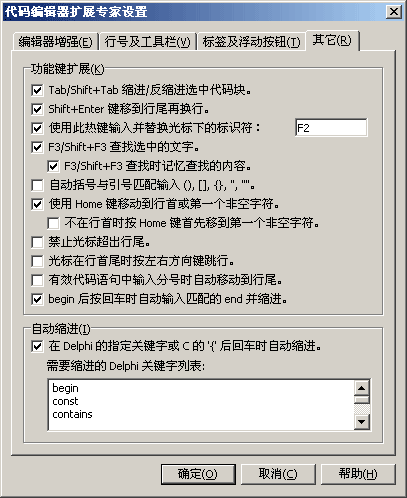
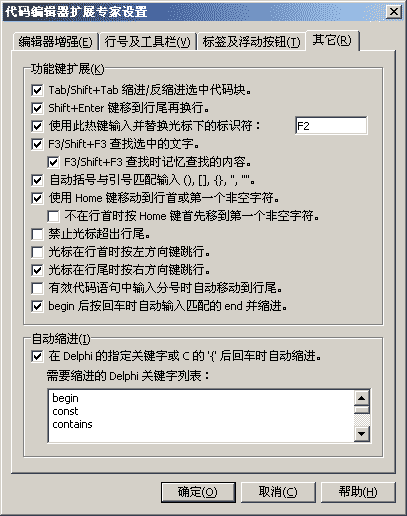
* [Help] Update Help and Language Files.

diff --git a/Help/CnWizards_ENU/srcedtenh/srcedtothers.htm b/Help/CnWizards_ENU/srcedtenh/srcedtothers.htm
@@ -77,7 +77,10 @@
     <p class="text"><b>Keep Cursor Before End of Line</b>: If checked, Do not allow cursor to exceed End of Line for non-empty line.</p>
   </li>
   <li>
-    <p class="text"><b>Wrap Cursor when Press Left/Right at Line Head/End.</b>: Move cursor to privious line end when press Left arrow key at line head. Move cursor to next line head when press Right arrow key at line end.</p>
+    <p class="text"><b>Wrap Cursor when Press Left at Line Head.</b>: Move cursor to previous line end when press Left arrow key at line head.</p>
+  </li>
+  <li>
+    <p class="text"><b>Wrap Cursor when Press Right at Line End.</b>: Move cursor to next line head when press Right arrow key at line end.</p>
   </li>
   <li>
     <p class="text"><b>Put to Line End when Enter ";" in Source Code</b>: When cursor is in source code, not in string or comment, if a semicolon is entered, whether to put it to the end of line automatically.</p>
